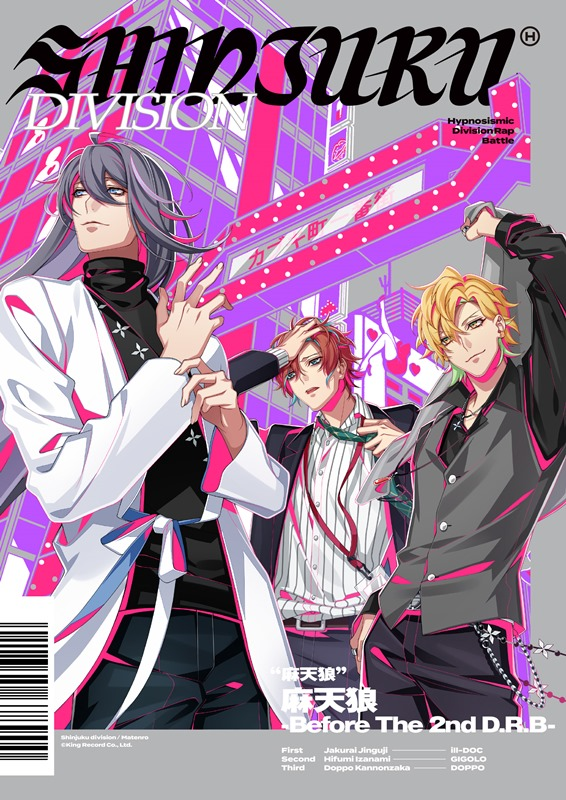
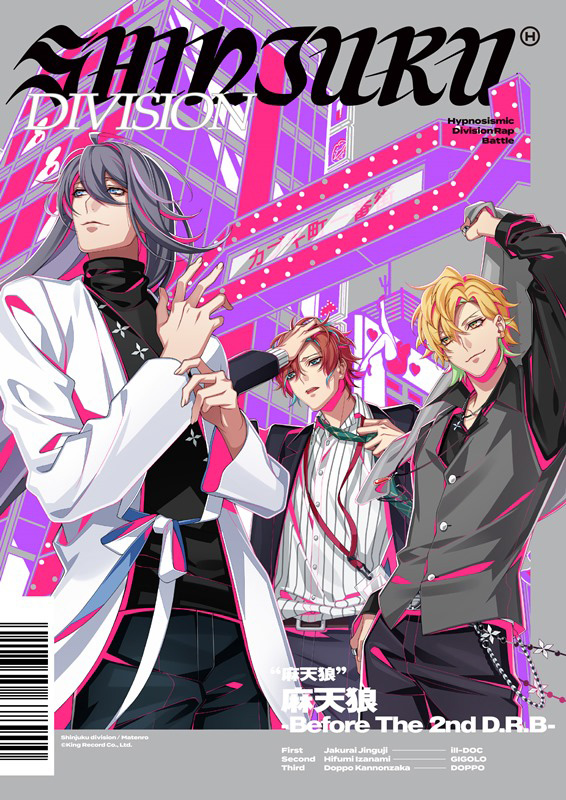
compression

diff --git a/main/hypmic/index.html b/main/hypmic/index.html
@@ -359,7 +359,7 @@
       <p>So far Hypmic has released 9 CDs. The first 4 were for each division: each CD contained 3 solo songs (one per member) and 2 drama tracks.</p>
       <table class="cds">
         <tr>
-          <td><img src="albums/bbros1.png" alt="Buster Bros!!! Generation"></td>
+          <td><img src="albums/bbros1.jpg" alt="Buster Bros!!! Generation"></td>
           <td><img src="albums/mtc1.jpg" alt="BAYSIDE M.T.C"></td>
           <td><img src="albums/mtr1.jpg" alt="Matenrou -Onin Rinshou-"></td>
           <td><img src="albums/fp1.jpg" alt="Fling Posse -F.P.S.M-"></td>
@@ -442,7 +442,7 @@
       <table class="cds">
         <tr>
           <td>
-            <a href="https://www.youtube.com/watch?v=pqbteTYorDM" target="_blank"><img src="albums/bs4.png" alt="The Champion"></a>
+            <a href="https://www.youtube.com/watch?v=pqbteTYorDM" target="_blank"><img src="albums/bs4.jpg" alt="The Champion"></a>
           </td>
           <td>            
             Release: 27 February 2019
@@ -459,7 +459,7 @@
       <table class="cds">
         <tr>
           <td>
-            <a href="https://www.youtube.com/watch?v=NZ8CAJ0zgus" target="_blank"><img src="albums/album1.png" alt="Enter the Hypnosis Microphone"></a>
+            <a href="https://www.youtube.com/watch?v=NZ8CAJ0zgus" target="_blank"><img src="albums/album1.jpg" alt="Enter the Hypnosis Microphone"></a>
           </td>
           <td>            
             Release: 24 April 2019
@@ -488,7 +488,7 @@
       <table class="cds">
         <tr>
           <td><img src="albums/dh1.jpg" alt="Ah, Osaka Dreamin' Night"></td>
-          <td><img src="albums/bat1.png" alt="Bad Ass Temple Funky Sounds"></td>
+          <td><img src="albums/bat1.jpg" alt="Bad Ass Temple Funky Sounds"></td>
         </tr>
         <tr>
           <td>Release: 30 October 2019 <a href="https://www.youtube.com/watch?v=mmZGiZ5j8LY" target="_blank">[trailer]</a></td>
@@ -514,7 +514,7 @@
         <tr>
           <td><img src="albums/bbros2.jpg" alt="Buster Bros!!! -Before The 2nd D.R.B-"></td>
           <td><img src="albums/mtc2.jpg" alt="MAD TRIGGER CREW -Before The 2nd D.R.B-""></td>
-          <td><img src="albums/fp2.png" alt="Fling Posse -Before The 2nd D.R.B-""></td>
+          <td><img src="albums/fp2.jpg" alt="Fling Posse -Before The 2nd D.R.B-""></td>
           <td><img src="albums/mtr2.jpg" alt="Matenrou -Before The 2nd D.R.B-""></td>
         </tr>
         <tr>
